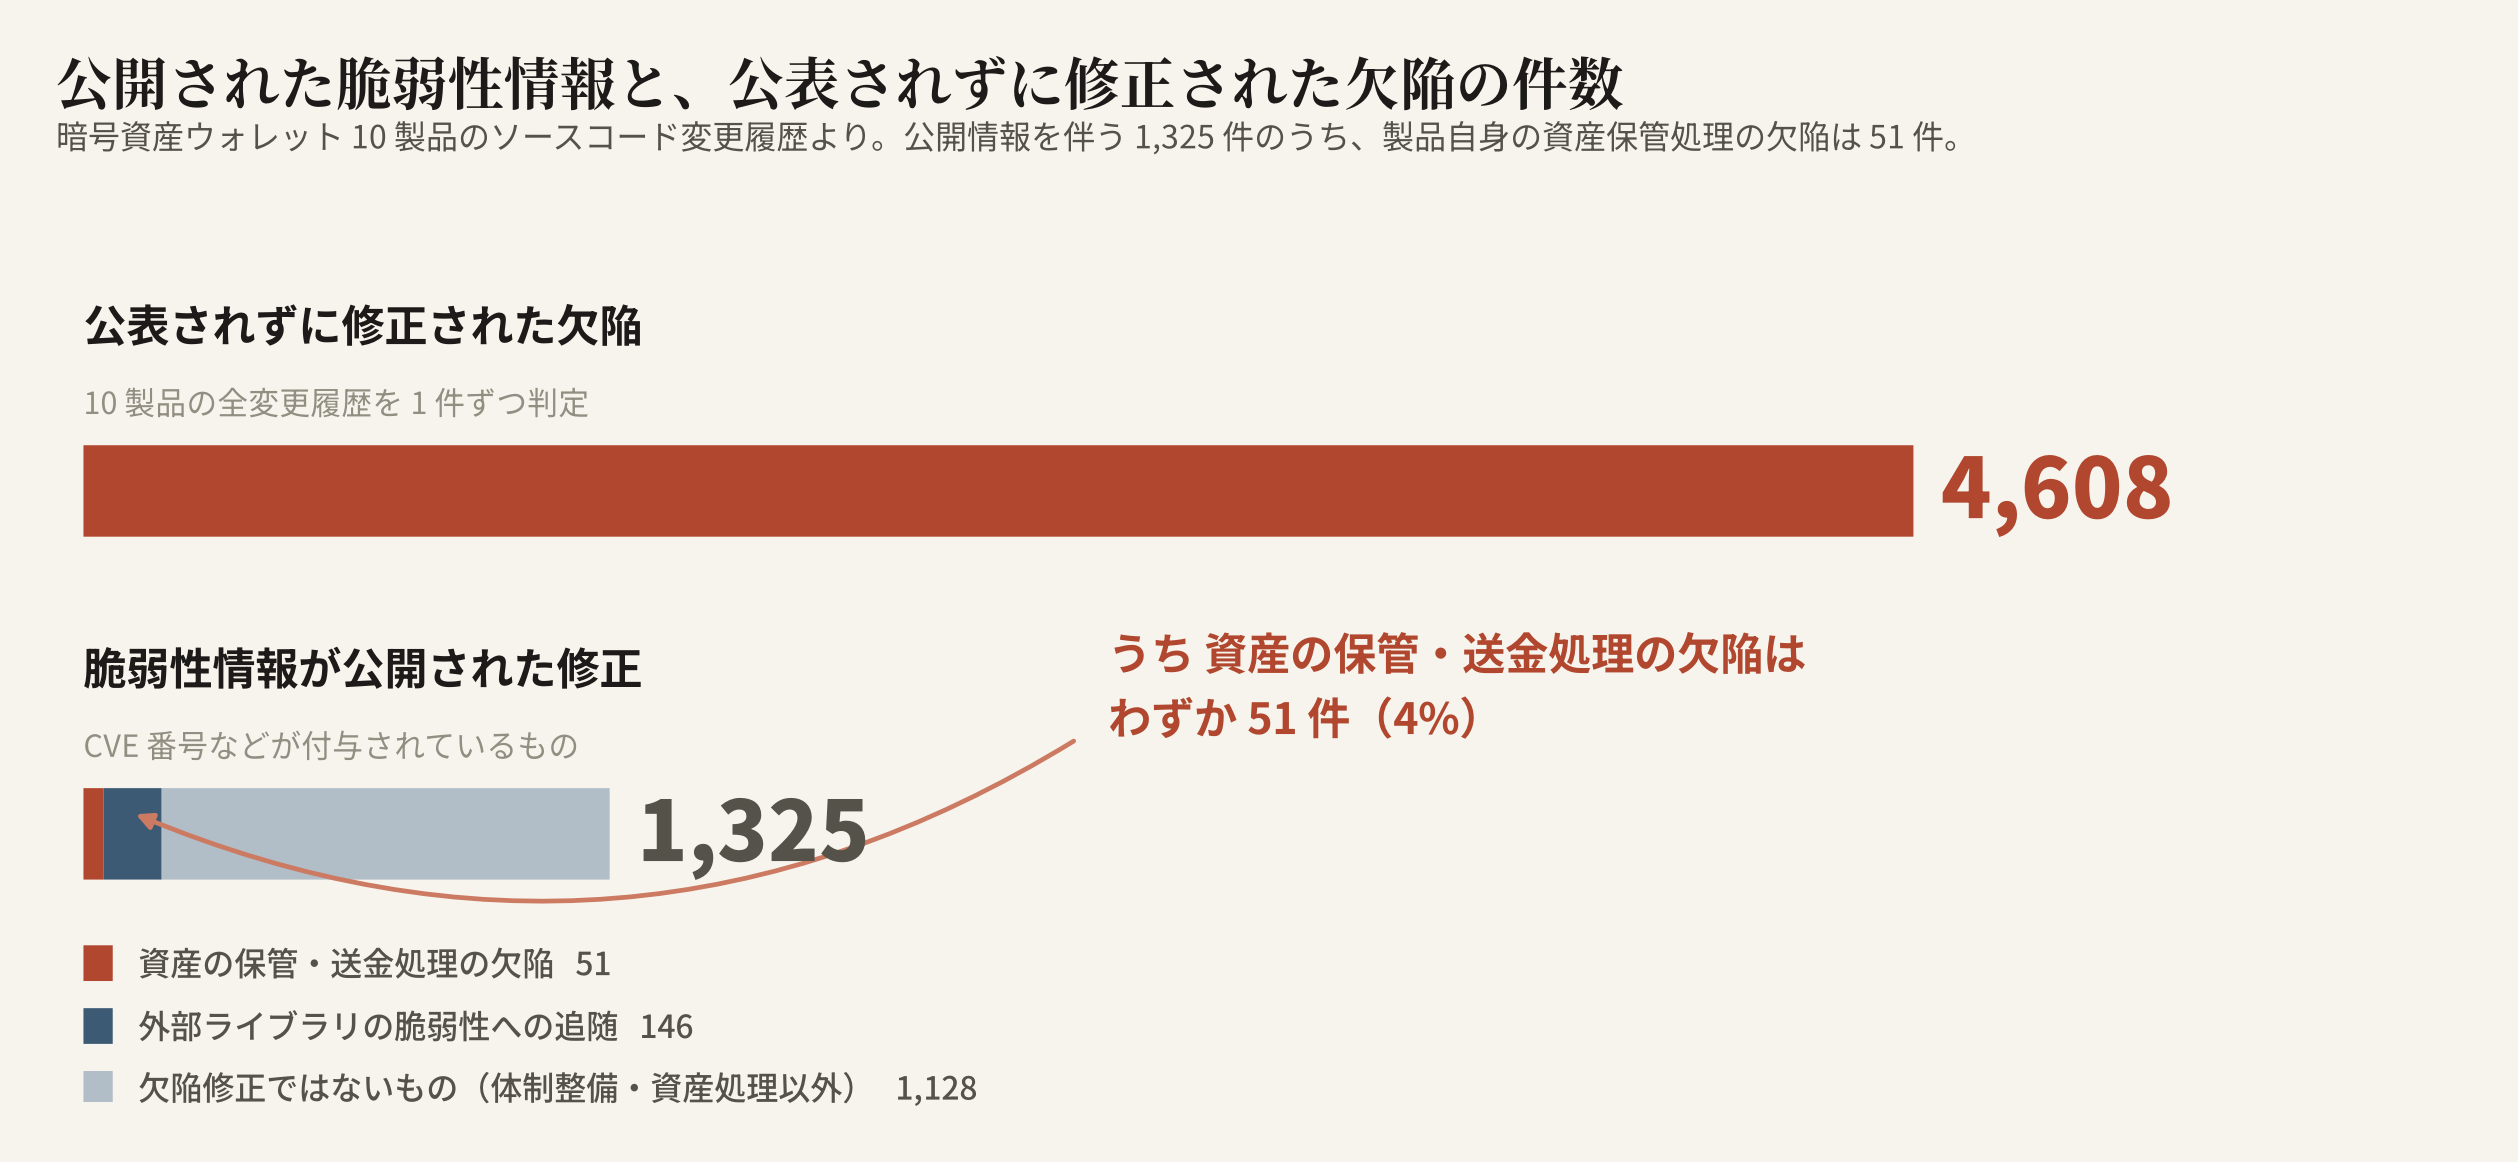
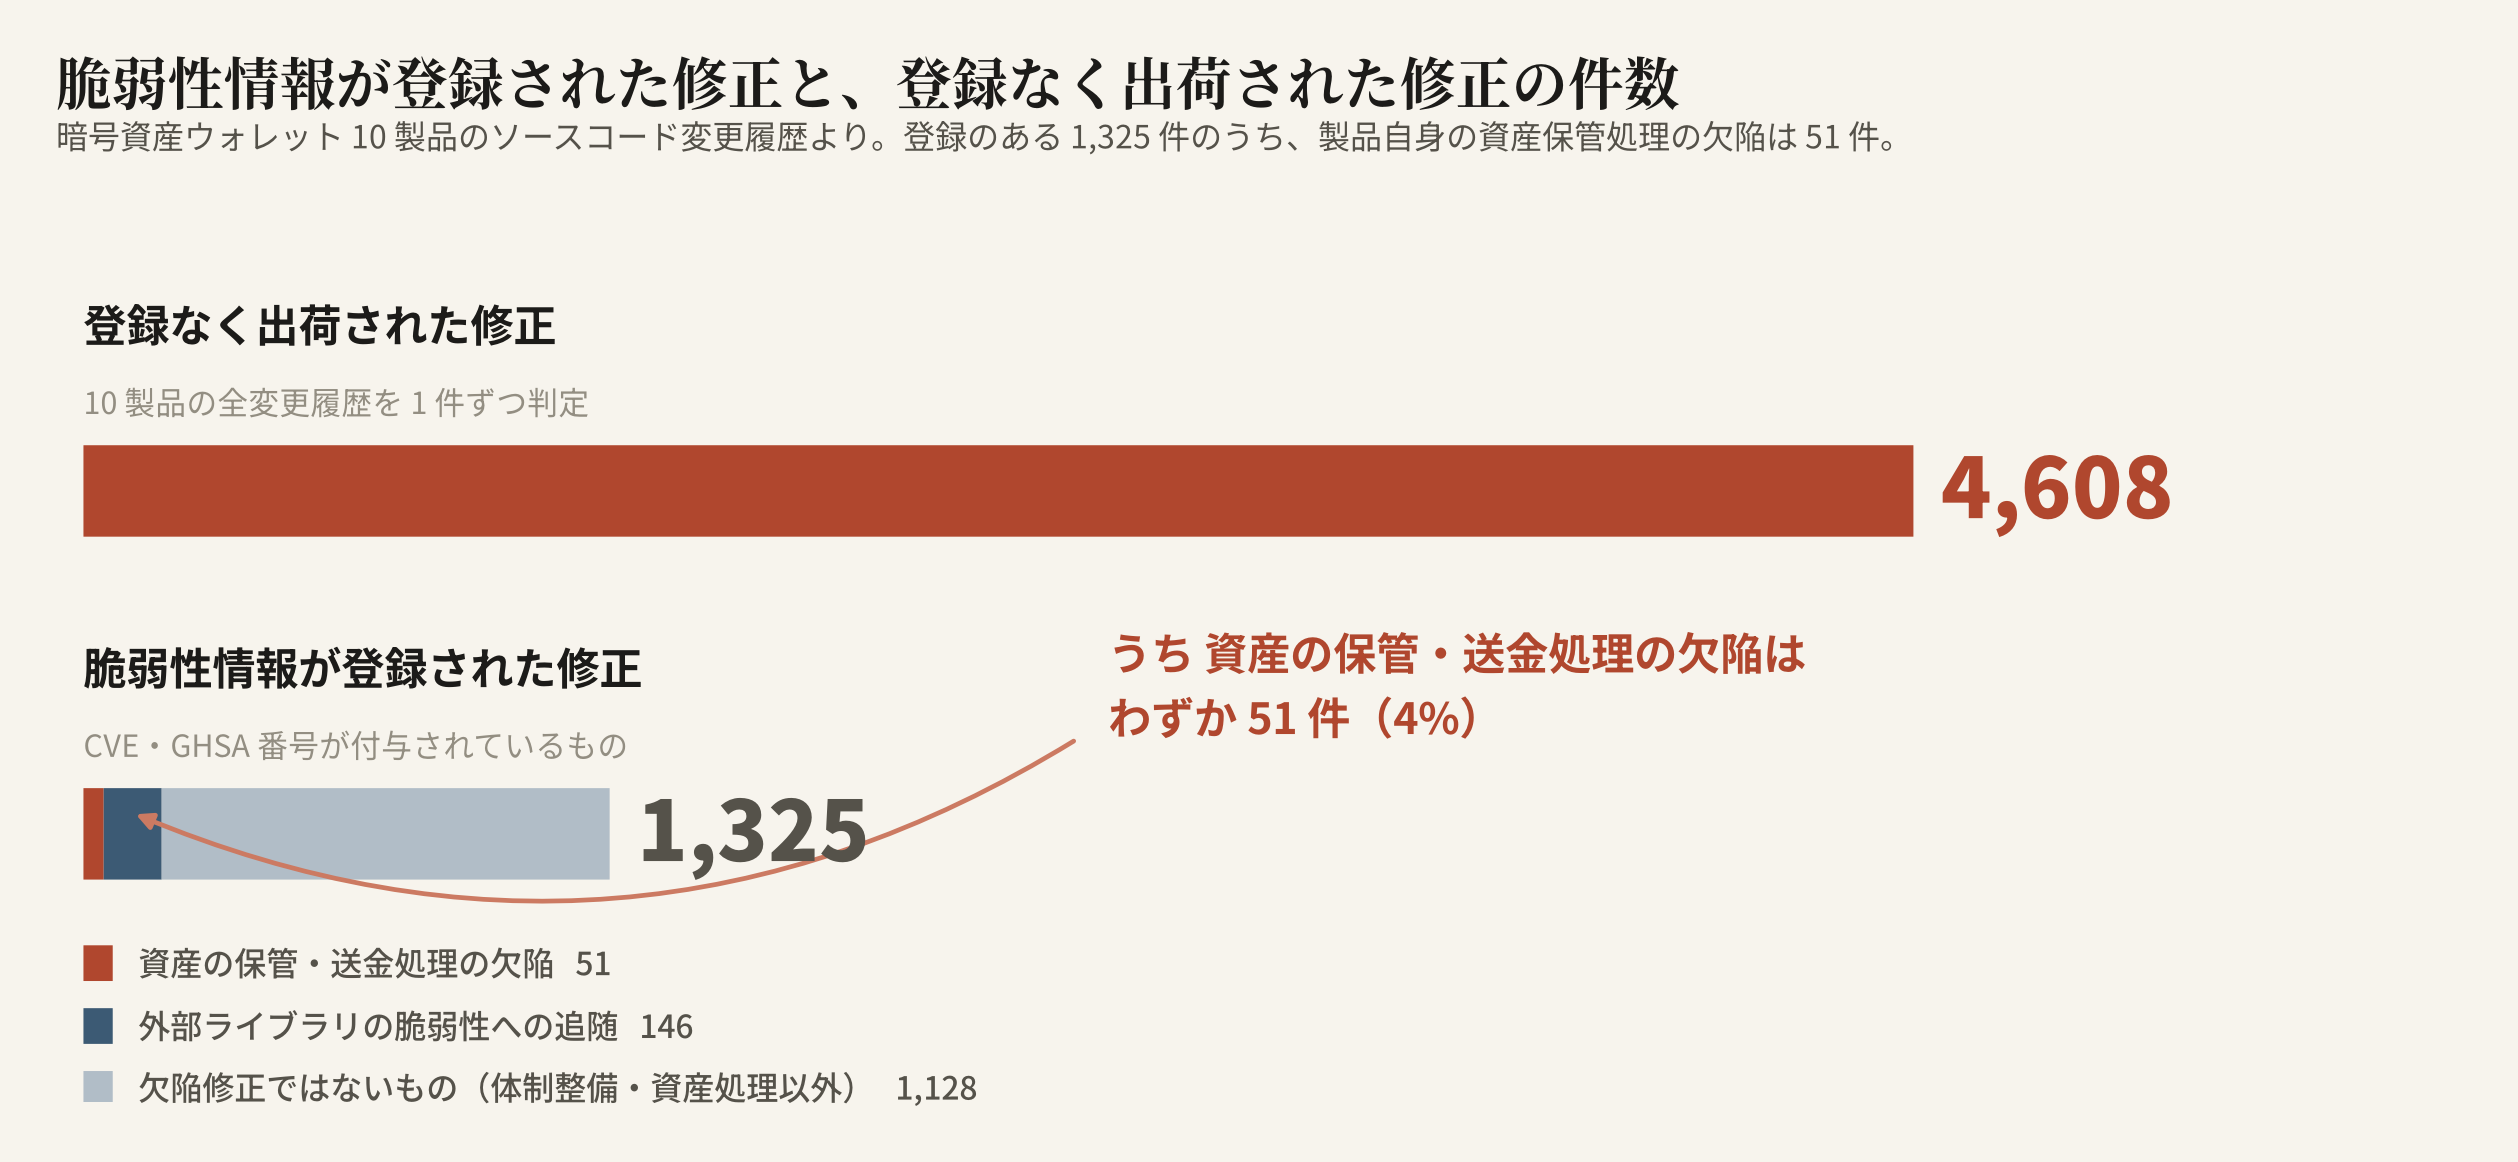
Reword the figures: registered, not announced
Four labels said 公表されずに修正された / 非公開で修正された — "fixed without
being announced". The corpus cannot see that. It sees whether a CVE or GHSA
record exists, and BTCPay's TOTP bypass shows the two come apart: emergency
release, active exploitation, press coverage, no advisory. A poster claiming
non-disclosure would have been refutable by a four-day-old news story.

Now 登録なく出荷された修正 and CVE・GHSA に記録のない, with the reason recorded
next to the label so it does not drift back. All four figures re-rendered and
read; one label was only found by looking at the image, since it was a separate
string literal from the title I had already fixed.

diff --git a/scripts/poster_figures.py b/scripts/poster_figures.py
@@ -77,17 +77,22 @@ def fig_ratio(out="fig1_ratio.png"):
     fig, ax = S.new(12.8, 5.6, xlim=(-W * 0.015, W * 1.30), ylim=(-1.62, 1.30))
 
     # silent fixes
-    S.t(ax, 0, 1.10, "公表されずに修正された欠陥", fp="bold", size=15.5, color=S.INK, va="center")
+    S.t(ax, 0, 1.10, "登録なく出荷された修正", fp="bold", size=15.5, color=S.INK, va="center")
     S.t(ax, 0, 0.83, "10 製品の全変更履歴を 1 件ずつ判定",
         fp="reg", size=11, color=S.MUTED, va="center")
     S.rrect(ax, 0, 0.36, silent, 0.32, fc=S.RUST, ec="none", rs=0.02, z=2)
     S.t(ax, silent + W * 0.015, 0.52, f"{silent:,}", fp="black", size=30,
         color=S.RUST, va="center")
 
+    # "登録なく" not "公表されずに": the corpus can only observe whether a
+    # CVE/GHSA record exists, and the two come apart. BTCPay's TOTP 2FA bypass
+    # shipped in an emergency release under active exploitation, with press
+    # coverage, and still has no GitHub advisory — it counts as silent here and
+    # was in no sense undisclosed.
     # advisory rows, segmented
-    S.t(ax, 0, -0.10, "脆弱性情報が公開された修正", fp="bold", size=15.5,
+    S.t(ax, 0, -0.10, "脆弱性情報が登録された修正", fp="bold", size=15.5,
         color=S.INK, va="center")
-    S.t(ax, 0, -0.37, "CVE 番号などが付与されているもの", fp="reg", size=11,
+    S.t(ax, 0, -0.37, "CVE・GHSA 番号が付与されているもの", fp="reg", size=11,
         color=S.MUTED, va="center")
     x = 0.0
     for n, c in ((conf, S.RUST), (dep, S.SLATE), (rest, S.lighten(S.SLATE, 0.60))):
@@ -117,9 +122,9 @@ def fig_ratio(out="fig1_ratio.png"):
 
     fig.subplots_adjust(top=0.775, bottom=0.03, left=0.045, right=0.985)
     S.title_block(fig,
-                  "公開された脆弱性情報と、公表されずに修正された欠陥の件数",
+                  "脆弱性情報が登録された修正と、登録なく出荷された修正の件数",
                   "暗号資産ウォレット 10 製品のソースコード変更履歴より。"
-                  "公開情報を伴う 1,325 件のうち、製品自身の資産保管処理の欠陥は 51 件。",
+                  "登録のある 1,325 件のうち、製品自身の資産保管処理の欠陥は 51 件。",
                   x=0.045, y=0.965)
     return S.save(fig, out)
 
@@ -199,7 +204,7 @@ def fig_composition(out="fig2b_composition.png"):
 
     fig.subplots_adjust(top=0.845, bottom=0.055, left=0.235, right=0.985)
     S.title_block(fig,
-                  "公表されずに修正された欠陥 4,608 件の原因別内訳",
+                  "CVE・GHSA に記録のない修正 4,608 件の原因別内訳",
                   "暗号資産ウォレット 10 製品の全変更履歴より。原因は 23 分類、"
                   "うち特定できたものが 94.9%。",
                   x=0.045, y=0.972)
@@ -276,7 +281,7 @@ def fig_folk(out="fig4_folk.png"):
     fig.subplots_adjust(top=0.80, bottom=0.05, left=0.045, right=0.90)
     S.title_block(fig,
                   "欠陥の所在の内訳 — 電子署名・画面表示の誤りと、鍵そのものの漏洩",
-                  f"非公開で修正された {len(SIL):,} 件の分類。",
+                  f"CVE・GHSA に記録のない {len(SIL):,} 件の分類。",
                   x=0.045, y=0.965)
     return S.save(fig, out)
 

diff --git a/README.md b/README.md
@@ -422,9 +422,14 @@ uv run --with matplotlib --with numpy --with uharfbuzz --with fonttools \
 ```
 
 Labels are Japanese, and worded for a reader who has never worked on a wallet:
-"custody path" appears as 資産の保管・送金処理, "advisory" as 公開された脆弱性情報.
-Titles state what each figure shows; the takeaway sits in the subtitle. Every
-number is read from `data/`, never typed in.
+"custody path" appears as 資産の保管・送金処理, and an advisory as 登録された脆弱性情報 —
+registered, not 公表された (announced). The figures may only claim the record is
+missing, which is all the corpus can see; BTCPay's 2FA bypass was announced loudly
+and is still absent from it. Titles state what each figure shows; the takeaway sits
+in the subtitle. Every number is read from `data/`, never typed in.
+
+`scripts/poster_figures.py` imports `style.py` from the repository root, so it needs
+`PYTHONPATH=.` when run from anywhere other than that root.
 
 ## Layout
 
